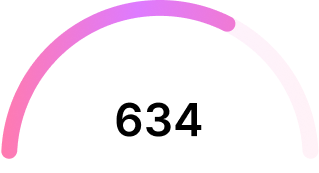
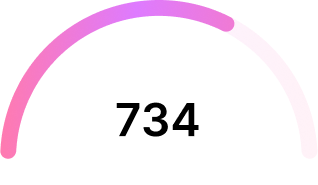
update meters

diff --git a/src/app/(landing-page)/_components/diy-platform.tsx b/src/app/(landing-page)/_components/diy-platform.tsx
@@ -1,7 +1,7 @@
 import Image from "next/image";
 import left from "@/public/diy-platform-left.tsx.png";
 import bot from "@/public/diy-credits2-left-bot.png";
-import meter1 from "@/public/hero-meter-1.png";
+import meter1 from "@/public/diy-platform.meter.png";
 import leftObj1 from "@/public/diy-platform-left-obj-1.png";
 import leftObj2 from "@/public/diy-platform-left-obj-2.png";
 import rightObj1 from "@/public/diy-platform-right-obj-1.png";
